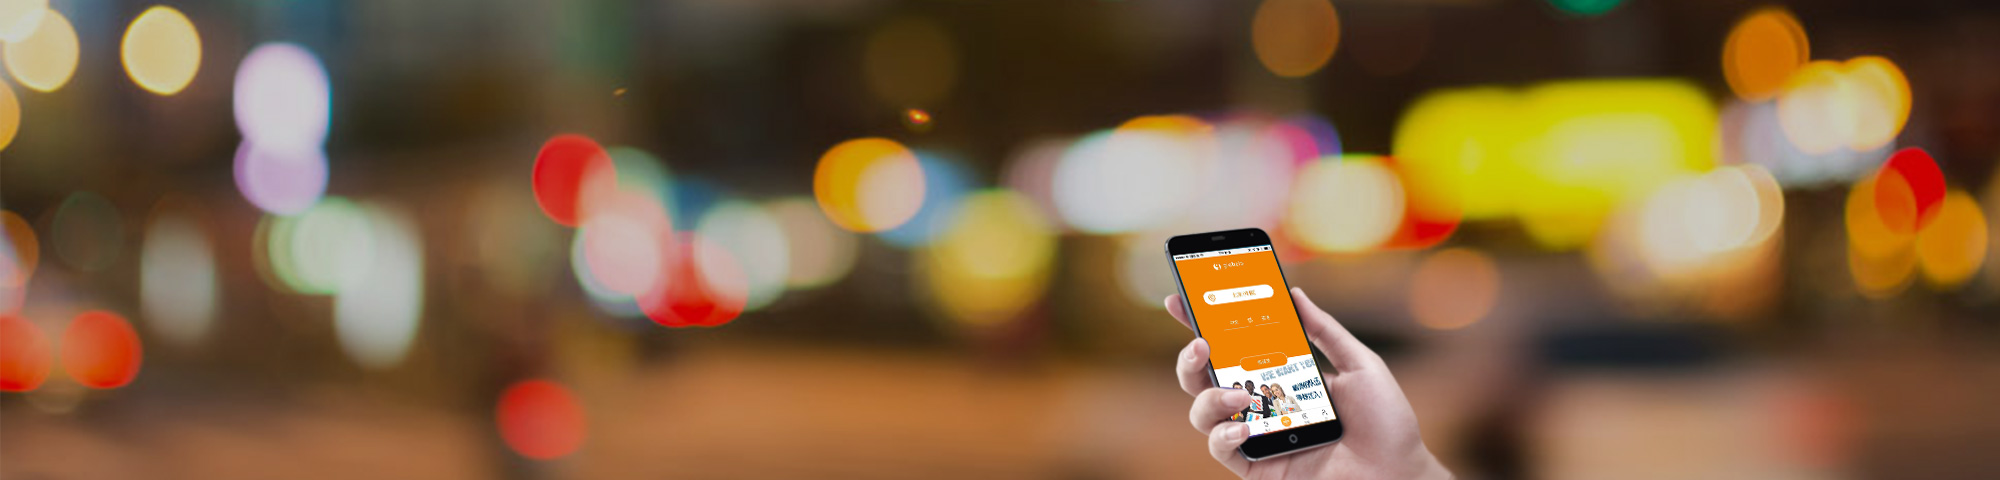
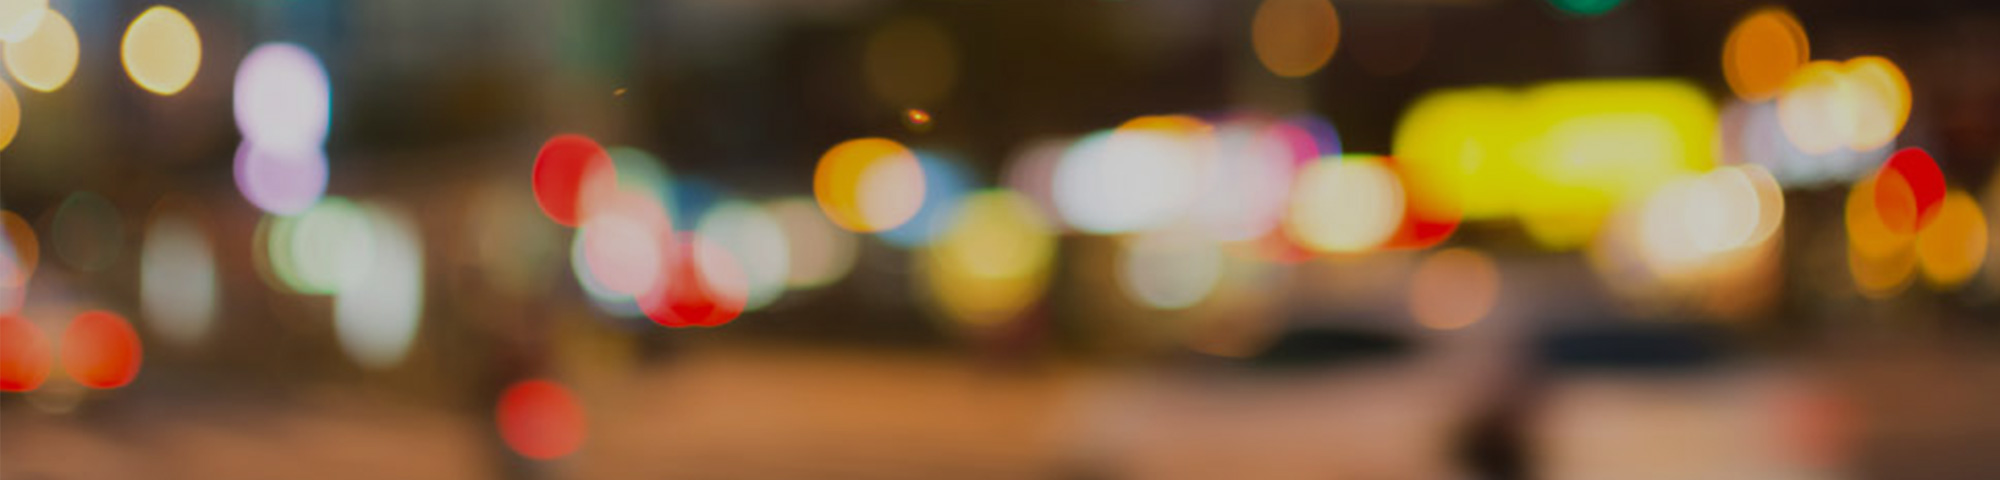
log

Changed region(s): [[0.558, 0.4688, 0.744, 1.0]]

diff --git a/panKai/翻译/coding/downloads.html b/panKai/翻译/coding/downloads.html
@@ -16,6 +16,12 @@
 			padding: 0;
 		}
 	}
+
+	@media screen and (max-width: 1024px){
+		.codePhone {
+			left:  70% !important;
+		}
+	}
 	</style>
 </head>
 <body class="user_html">
@@ -74,9 +80,10 @@
 		<div id="carousel-example-generic" class="carousel slide" data-ride="carousel">
 
 			<div class="carousel-inner" role="listbox">
-				<div class="item active">
-					<img class="codeImg" src="images/pc_down.jpg">
-					<div class="carousel-caption downloads_html">
+				<div class="item downloads_html active">
+					<img src="" alt="" style="background-image: url('images/pc_down.jpg')">
+					<img class="codePhone" src="images/down_phone.png" style="width: 200px;height: auto;position: absolute;bottom: 0;left: 55%;">
+					<div class="carousel-caption">
 						<img class="txt" src="images/down_txt.png">
 						<div class="codeDiv">
 							<img class="codeImg" src="images/2code.jpg">

diff --git a/panKai/翻译/coding/css/global.css b/panKai/翻译/coding/css/global.css
@@ -1028,7 +1028,7 @@
 
 
 /*下载页面*/
-.carousel-caption.downloads_html {
+.downloads_html .carousel-caption {
     top: 10%;
 }
 
